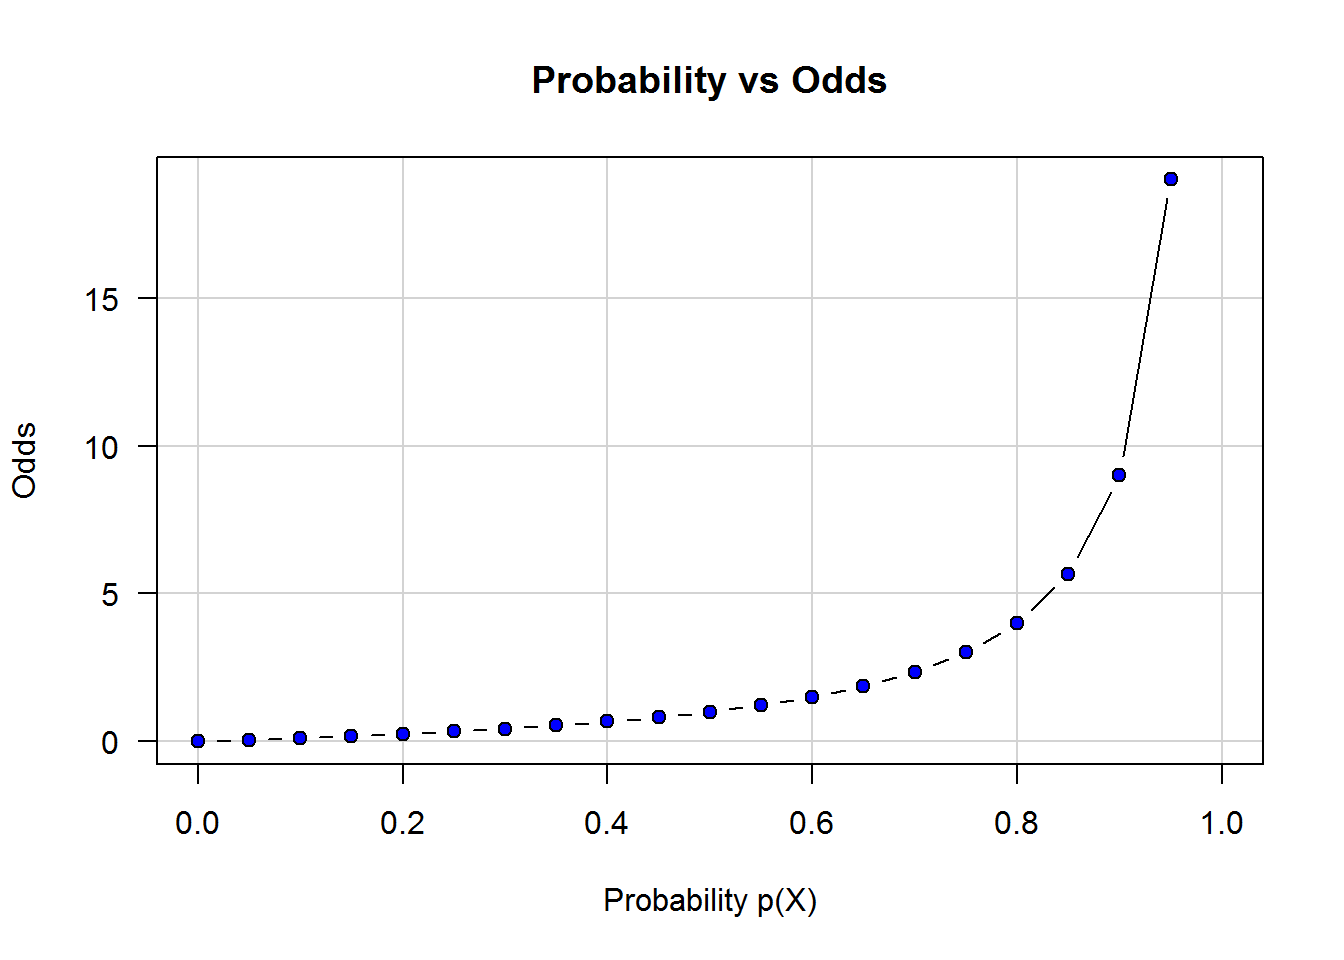
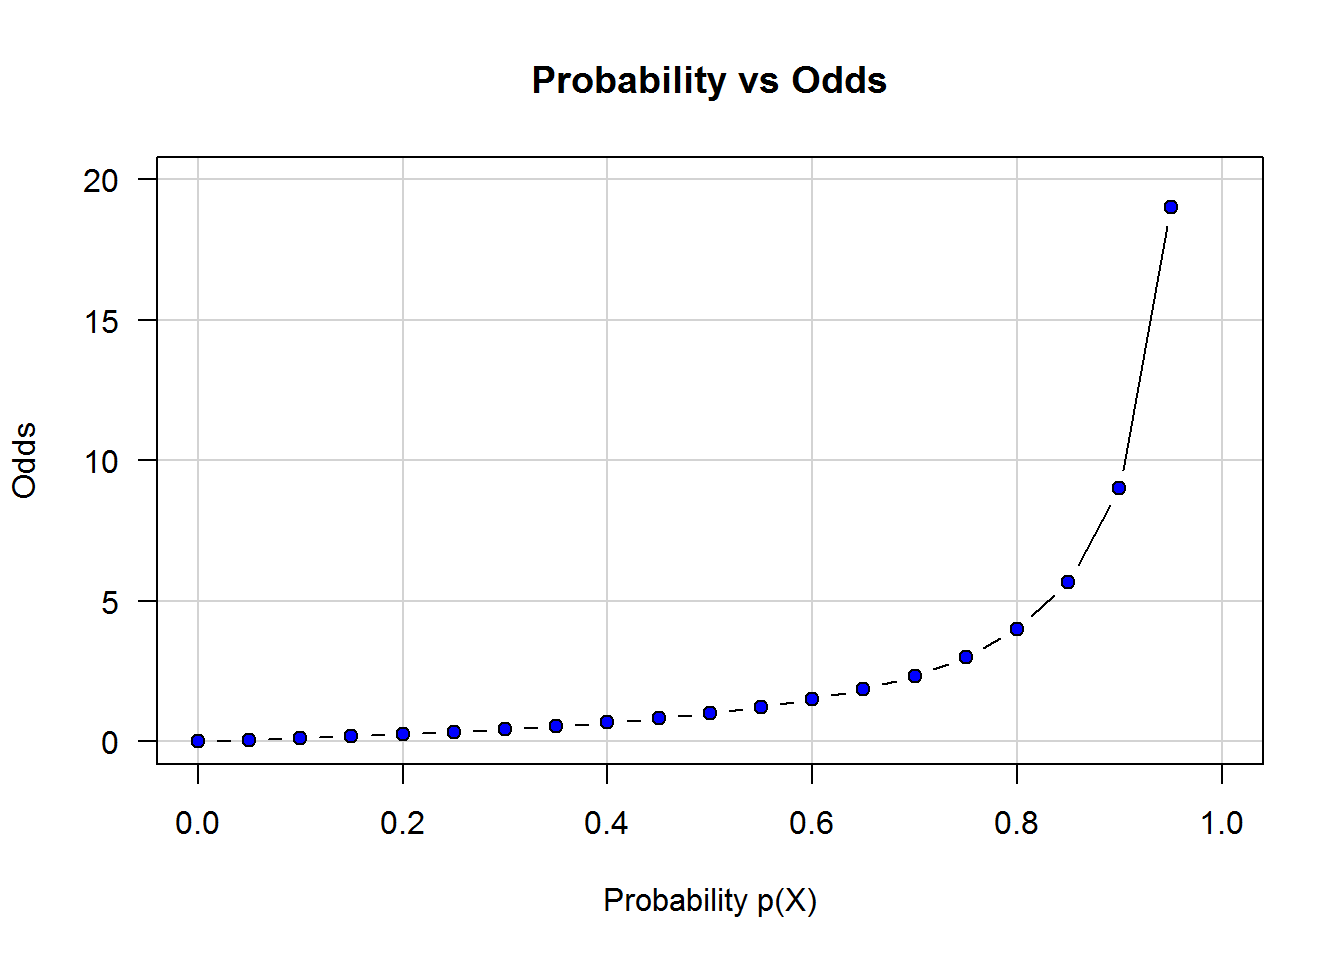
add logit

diff --git a/docs/ML.html b/docs/ML.html
@@ -162,23 +162,27 @@ code > span.in { color: #60a0b0; font-weight: bold; font-style: italic; } /* Inf
 </div>
 <div id="logisticregression" class="section level2">
 <h2><span class="header-section-number">3.3</span> Logistic regression</h2>
-<p>Logistic regression is a useful tool to model the probability of the dependent variable to belong to a particular (binary) category. Thus, logistic regression is part of the group of techniques typically used for classification problems. More formally, logistic regression models the relationship between <span class="math inline">\(p(X) = Pr(Y=1|X)\)</span>, where <span class="math inline">\(p(X)\)</span> denotes the probability for <span class="math inline">\(Y\)</span> to be True given a specific value of <span class="math inline">\(X\)</span>.</p>
+<p>Logistic regression is a useful tool to model the probability of the dependent variable to belong to a particular (binary) category. Thus, logistic regression is part of the group of techniques typically used for classification problems.</p>
+<p>More formally, logistic regression models the relationship between <span class="math inline">\(p(X) = Pr(Y=1|X)\)</span>, where <span class="math inline">\(p(X)\)</span> denotes the probability for <span class="math inline">\(Y\)</span> to be True given a specific value of <span class="math inline">\(X\)</span>.</p>
 <p>In classification problems we are interested on predicting whether an event will happen or not, if an individual belogs to group A or group B, or whether the market will move downward or upward. All those are examples of binary classification problems for which we need a mathematical function which output ranges between 0 and 1 for all the domain of <span class="math inline">\(X\)</span>. In other words, regardless the value of <span class="math inline">\(X\)</span> the output value of <span class="math inline">\(f\)</span> is always a number between 0 and 1.</p>
-<p>You might wonder why not to use linear regression for classification problems. Remember that for linear regression <span class="math inline">\(p(X)\)</span> is defined as <span class="math inline">\(p(X) = {\beta_0} + {\beta_1} X\)</span> which is of little help to make predictions about the category of a variable given that it’s codomain includes all the real numbers <span class="math inline">\(\mathbb{R}\)</span> from <span class="math inline">\(-{\infty}\)</span> to <span class="math inline">\({\infty}\)</span>. That is <span class="math inline">\(f: \mathbb{R} \mapsto \mathbb{R}\)</span>. How would you interpret a negative probability? What would be the meaning of a very large probability number such as 9000%? There are several function that satisfy this condition <span class="math inline">\(f: \mathbb{R} \mapsto (0,1)\)</span> however linear regression is not one of them.</p>
-<p>One of the functions that satisfy this condition is the logistic function defined below:</p>
+<p>You might wonder why not to use linear regression for classification problems. Remember that for linear regression <span class="math inline">\(p(X)\)</span> is defined as <span class="math inline">\(p(X) = {\beta_0} + {\beta_1} X\)</span> which is of little help to make predictions about the category of a variable given that it’s codomain includes all the real numbers <span class="math inline">\(\mathbb{R}\)</span> from <span class="math inline">\(-{\infty}\)</span> to <span class="math inline">\({\infty}\)</span>. That is <span class="math inline">\(f: \mathbb{R} \mapsto \mathbb{R}\)</span>. How would you interpret a negative probability? What would be the meaning of a very large probability number such as 9000%? There are several function that satisfy the condition <span class="math inline">\(f: \mathbb{R} \mapsto (0,1)\)</span> however linear regression is not one of them.</p>
+<p>One of the functions that satisfy the condition <span class="math inline">\(f: \mathbb{R} \mapsto (0,1)\)</span> is the logistic function defined below:</p>
 <p><span class="math display">\[p(X) = \frac{e^{{\beta_0} + {\beta_1} X}}{1+e^{{\beta_0} + {\beta_1} X}}\]</span> , which can also be expressed as follows:</p>
-<p><span class="math display">\[\frac{p(X)}{1-p(X)} = e^{{\beta_0} + {\beta_1} X}\]</span> The left side of the equation above is also known as <em>the odds</em> of the event. The odds describe the likeliness that an event will occur and can take any value from zero to infinite. An odds value close to zero indicates that the event is very unlikely to happen, the higher the odds value the higher the likeliness for the event to happen.</p>
-<p>The likeliness of the odds is not exactly the same as the probability for the event to happen, remember that probability is denoted by <span class="math inline">\(p(X)\)</span> and lies between zero to one. For example, let’s say that the probability <span class="math inline">\(p(X)\)</span> for a medical diagnostic to be correct is 80% this will imply an odds value of 4 given that <span class="math inline">\(\frac{0.8}{1-0.8} = 4\)</span>. In other words, 8 in 10 people with an odds of 4 will receive the correct diagnostic.</p>
+<p><span class="math display">\[\frac{p(X)}{1-p(X)} = e^{{\beta_0} + {\beta_1} X}\]</span> The left side of the equation above is also known as <em>the odds</em> of the event. The odds describe the likeliness for an event to occur and can take any value from zero to infinite. An odds value close to zero indicates that the event is very unlikely to happen, the higher the odds value the higher the likeliness for the event to happen.</p>
+<p>The likeliness of the odds is not exactly the same as the probability for the event to happen, remember that probability is denoted by <span class="math inline">\(p(X)\)</span> and lies between 0 and 1. For example, let’s say that the probability <span class="math inline">\(p(X)\)</span> for a medical diagnostic to be correct is 80%, this will imply an odds value of 4 given that <span class="math inline">\(\frac{0.8}{1-0.8} = 4\)</span>. In other words, 8 in 10 people with an odds of 4 will receive the correct diagnostic.</p>
+<p>As the reader can conclude from the plot below, in general any odds value higher than 10 suggests a very high probability for the event to accur.</p>
 <div class="sourceCode"><pre class="sourceCode r"><code class="sourceCode r"><span class="kw">par</span>(<span class="dt">las =</span> <span class="dv">1</span>)
 <span class="kw">plot</span>(<span class="dt">x =</span> <span class="kw">seq</span>(<span class="dt">from =</span> <span class="dv">0</span>, <span class="dt">to =</span> <span class="dv">1</span>, <span class="dt">by =</span> <span class="fl">0.05</span>), 
      <span class="dt">y =</span> <span class="kw">seq</span>(<span class="dt">from =</span> <span class="dv">0</span>, <span class="dt">to =</span> <span class="dv">1</span>, <span class="dt">by =</span> <span class="fl">0.05</span>)<span class="op">/</span>(<span class="dv">1</span><span class="op">-</span><span class="kw">seq</span>(<span class="dt">from =</span> <span class="dv">0</span>, <span class="dt">to =</span> <span class="dv">1</span>, <span class="dt">by =</span> <span class="fl">0.05</span>)),
+     <span class="dt">ylim =</span> <span class="kw">range</span>(<span class="dv">0</span><span class="op">:</span><span class="dv">20</span>),
      <span class="dt">main =</span> <span class="st">&#39;Probability vs Odds&#39;</span>,
      <span class="dt">xlab =</span> <span class="st">&#39;Probability p(X)&#39;</span>,
      <span class="dt">ylab =</span> <span class="st">&#39;Odds&#39;</span>,
      <span class="dt">type =</span> <span class="st">&#39;b&#39;</span>, <span class="dt">pch =</span> <span class="dv">21</span>, <span class="dt">bg=</span><span class="st">&quot;blue&quot;</span>,
      <span class="dt">panel.first =</span> <span class="kw">grid</span>(<span class="dt">lty =</span> <span class="dv">1</span>))</code></pre></div>
 <p><img src="bookdown_files/figure-html/unnamed-chunk-1-1.png" width="672" /></p>
-<p>Applying the log..</p>
+<p>Applying the logarithm to the logistic function we obtain the log-odds function also known as <em>logit</em>. This function is linear in <span class="math inline">\(X\)</span>.</p>
+<p><span class="math display">\[\log\frac{p(X)}{1-p(X)} = {\beta_0} + {\beta_1} X\]</span> The linear relationship between the log-odds and <span class="math inline">\(X\)</span> means that a one-unit increase in <span class="math inline">\(X\)</span> is associated with an increase in the log-odds by <span class="math inline">\({\beta_1}\)</span> units.</p>
 </div>
 <div id="crossvalidation" class="section level2">
 <h2><span class="header-section-number">3.4</span> Cross Validation</h2>

diff --git a/docs/index.html b/docs/index.html
@@ -25,7 +25,7 @@
 <meta name="author" content="MSc J. Manuel Magana A., PhD Alberto Dorantes">
 
 
-<meta name="date" content="2018-10-28">
+<meta name="date" content="2018-11-04">
 
   <meta name="viewport" content="width=device-width, initial-scale=1">
   <meta name="apple-mobile-web-app-capable" content="yes">
@@ -49,6 +49,43 @@
 
 
 
+<style type="text/css">
+div.sourceCode { overflow-x: auto; }
+table.sourceCode, tr.sourceCode, td.lineNumbers, td.sourceCode {
+  margin: 0; padding: 0; vertical-align: baseline; border: none; }
+table.sourceCode { width: 100%; line-height: 100%; }
+td.lineNumbers { text-align: right; padding-right: 4px; padding-left: 4px; color: #aaaaaa; border-right: 1px solid #aaaaaa; }
+td.sourceCode { padding-left: 5px; }
+code > span.kw { color: #007020; font-weight: bold; } /* Keyword */
+code > span.dt { color: #902000; } /* DataType */
+code > span.dv { color: #40a070; } /* DecVal */
+code > span.bn { color: #40a070; } /* BaseN */
+code > span.fl { color: #40a070; } /* Float */
+code > span.ch { color: #4070a0; } /* Char */
+code > span.st { color: #4070a0; } /* String */
+code > span.co { color: #60a0b0; font-style: italic; } /* Comment */
+code > span.ot { color: #007020; } /* Other */
+code > span.al { color: #ff0000; font-weight: bold; } /* Alert */
+code > span.fu { color: #06287e; } /* Function */
+code > span.er { color: #ff0000; font-weight: bold; } /* Error */
+code > span.wa { color: #60a0b0; font-weight: bold; font-style: italic; } /* Warning */
+code > span.cn { color: #880000; } /* Constant */
+code > span.sc { color: #4070a0; } /* SpecialChar */
+code > span.vs { color: #4070a0; } /* VerbatimString */
+code > span.ss { color: #bb6688; } /* SpecialString */
+code > span.im { } /* Import */
+code > span.va { color: #19177c; } /* Variable */
+code > span.cf { color: #007020; font-weight: bold; } /* ControlFlow */
+code > span.op { color: #666666; } /* Operator */
+code > span.bu { } /* BuiltIn */
+code > span.ex { } /* Extension */
+code > span.pp { color: #bc7a00; } /* Preprocessor */
+code > span.at { color: #7d9029; } /* Attribute */
+code > span.do { color: #ba2121; font-style: italic; } /* Documentation */
+code > span.an { color: #60a0b0; font-weight: bold; font-style: italic; } /* Annotation */
+code > span.cv { color: #60a0b0; font-weight: bold; font-style: italic; } /* CommentVar */
+code > span.in { color: #60a0b0; font-weight: bold; font-style: italic; } /* Information */
+</style>
 
 </head>
 
@@ -116,7 +153,7 @@
 <div id="header">
 <h1 class="title">Data Science Handbook</h1>
 <h4 class="author"><em>MSc J. Manuel Magana A., PhD Alberto Dorantes</em></h4>
-<h4 class="date"><em>2018-10-28</em></h4>
+<h4 class="date"><em>2018-11-04</em></h4>
 </div>
 <div id="welcome" class="section level1 unnumbered">
 <h1>Welcome</h1>

diff --git a/docs/Annex.html b/docs/Annex.html
@@ -25,7 +25,7 @@
 <meta name="author" content="MSc J. Manuel Magana A., PhD Alberto Dorantes">
 
 
-<meta name="date" content="2018-10-28">
+<meta name="date" content="2018-11-04">
 
   <meta name="viewport" content="width=device-width, initial-scale=1">
   <meta name="apple-mobile-web-app-capable" content="yes">
@@ -49,6 +49,43 @@
 
 
 
+<style type="text/css">
+div.sourceCode { overflow-x: auto; }
+table.sourceCode, tr.sourceCode, td.lineNumbers, td.sourceCode {
+  margin: 0; padding: 0; vertical-align: baseline; border: none; }
+table.sourceCode { width: 100%; line-height: 100%; }
+td.lineNumbers { text-align: right; padding-right: 4px; padding-left: 4px; color: #aaaaaa; border-right: 1px solid #aaaaaa; }
+td.sourceCode { padding-left: 5px; }
+code > span.kw { color: #007020; font-weight: bold; } /* Keyword */
+code > span.dt { color: #902000; } /* DataType */
+code > span.dv { color: #40a070; } /* DecVal */
+code > span.bn { color: #40a070; } /* BaseN */
+code > span.fl { color: #40a070; } /* Float */
+code > span.ch { color: #4070a0; } /* Char */
+code > span.st { color: #4070a0; } /* String */
+code > span.co { color: #60a0b0; font-style: italic; } /* Comment */
+code > span.ot { color: #007020; } /* Other */
+code > span.al { color: #ff0000; font-weight: bold; } /* Alert */
+code > span.fu { color: #06287e; } /* Function */
+code > span.er { color: #ff0000; font-weight: bold; } /* Error */
+code > span.wa { color: #60a0b0; font-weight: bold; font-style: italic; } /* Warning */
+code > span.cn { color: #880000; } /* Constant */
+code > span.sc { color: #4070a0; } /* SpecialChar */
+code > span.vs { color: #4070a0; } /* VerbatimString */
+code > span.ss { color: #bb6688; } /* SpecialString */
+code > span.im { } /* Import */
+code > span.va { color: #19177c; } /* Variable */
+code > span.cf { color: #007020; font-weight: bold; } /* ControlFlow */
+code > span.op { color: #666666; } /* Operator */
+code > span.bu { } /* BuiltIn */
+code > span.ex { } /* Extension */
+code > span.pp { color: #bc7a00; } /* Preprocessor */
+code > span.at { color: #7d9029; } /* Attribute */
+code > span.do { color: #ba2121; font-style: italic; } /* Documentation */
+code > span.an { color: #60a0b0; font-weight: bold; font-style: italic; } /* Annotation */
+code > span.cv { color: #60a0b0; font-weight: bold; font-style: italic; } /* CommentVar */
+code > span.in { color: #60a0b0; font-weight: bold; font-style: italic; } /* Information */
+</style>
 
 </head>
 

diff --git a/docs/DSapps.html b/docs/DSapps.html
@@ -25,7 +25,7 @@
 <meta name="author" content="MSc J. Manuel Magana A., PhD Alberto Dorantes">
 
 
-<meta name="date" content="2018-10-28">
+<meta name="date" content="2018-11-04">
 
   <meta name="viewport" content="width=device-width, initial-scale=1">
   <meta name="apple-mobile-web-app-capable" content="yes">
@@ -49,6 +49,43 @@
 
 
 
+<style type="text/css">
+div.sourceCode { overflow-x: auto; }
+table.sourceCode, tr.sourceCode, td.lineNumbers, td.sourceCode {
+  margin: 0; padding: 0; vertical-align: baseline; border: none; }
+table.sourceCode { width: 100%; line-height: 100%; }
+td.lineNumbers { text-align: right; padding-right: 4px; padding-left: 4px; color: #aaaaaa; border-right: 1px solid #aaaaaa; }
+td.sourceCode { padding-left: 5px; }
+code > span.kw { color: #007020; font-weight: bold; } /* Keyword */
+code > span.dt { color: #902000; } /* DataType */
+code > span.dv { color: #40a070; } /* DecVal */
+code > span.bn { color: #40a070; } /* BaseN */
+code > span.fl { color: #40a070; } /* Float */
+code > span.ch { color: #4070a0; } /* Char */
+code > span.st { color: #4070a0; } /* String */
+code > span.co { color: #60a0b0; font-style: italic; } /* Comment */
+code > span.ot { color: #007020; } /* Other */
+code > span.al { color: #ff0000; font-weight: bold; } /* Alert */
+code > span.fu { color: #06287e; } /* Function */
+code > span.er { color: #ff0000; font-weight: bold; } /* Error */
+code > span.wa { color: #60a0b0; font-weight: bold; font-style: italic; } /* Warning */
+code > span.cn { color: #880000; } /* Constant */
+code > span.sc { color: #4070a0; } /* SpecialChar */
+code > span.vs { color: #4070a0; } /* VerbatimString */
+code > span.ss { color: #bb6688; } /* SpecialString */
+code > span.im { } /* Import */
+code > span.va { color: #19177c; } /* Variable */
+code > span.cf { color: #007020; font-weight: bold; } /* ControlFlow */
+code > span.op { color: #666666; } /* Operator */
+code > span.bu { } /* BuiltIn */
+code > span.ex { } /* Extension */
+code > span.pp { color: #bc7a00; } /* Preprocessor */
+code > span.at { color: #7d9029; } /* Attribute */
+code > span.do { color: #ba2121; font-style: italic; } /* Documentation */
+code > span.an { color: #60a0b0; font-weight: bold; font-style: italic; } /* Annotation */
+code > span.cv { color: #60a0b0; font-weight: bold; font-style: italic; } /* CommentVar */
+code > span.in { color: #60a0b0; font-weight: bold; font-style: italic; } /* Information */
+</style>
 
 </head>
 

diff --git a/docs/part-i-introduction.html b/docs/part-i-introduction.html
@@ -25,7 +25,7 @@
 <meta name="author" content="MSc J. Manuel Magana A., PhD Alberto Dorantes">
 
 
-<meta name="date" content="2018-10-28">
+<meta name="date" content="2018-11-04">
 
   <meta name="viewport" content="width=device-width, initial-scale=1">
   <meta name="apple-mobile-web-app-capable" content="yes">
@@ -49,6 +49,43 @@
 
 
 
+<style type="text/css">
+div.sourceCode { overflow-x: auto; }
+table.sourceCode, tr.sourceCode, td.lineNumbers, td.sourceCode {
+  margin: 0; padding: 0; vertical-align: baseline; border: none; }
+table.sourceCode { width: 100%; line-height: 100%; }
+td.lineNumbers { text-align: right; padding-right: 4px; padding-left: 4px; color: #aaaaaa; border-right: 1px solid #aaaaaa; }
+td.sourceCode { padding-left: 5px; }
+code > span.kw { color: #007020; font-weight: bold; } /* Keyword */
+code > span.dt { color: #902000; } /* DataType */
+code > span.dv { color: #40a070; } /* DecVal */
+code > span.bn { color: #40a070; } /* BaseN */
+code > span.fl { color: #40a070; } /* Float */
+code > span.ch { color: #4070a0; } /* Char */
+code > span.st { color: #4070a0; } /* String */
+code > span.co { color: #60a0b0; font-style: italic; } /* Comment */
+code > span.ot { color: #007020; } /* Other */
+code > span.al { color: #ff0000; font-weight: bold; } /* Alert */
+code > span.fu { color: #06287e; } /* Function */
+code > span.er { color: #ff0000; font-weight: bold; } /* Error */
+code > span.wa { color: #60a0b0; font-weight: bold; font-style: italic; } /* Warning */
+code > span.cn { color: #880000; } /* Constant */
+code > span.sc { color: #4070a0; } /* SpecialChar */
+code > span.vs { color: #4070a0; } /* VerbatimString */
+code > span.ss { color: #bb6688; } /* SpecialString */
+code > span.im { } /* Import */
+code > span.va { color: #19177c; } /* Variable */
+code > span.cf { color: #007020; font-weight: bold; } /* ControlFlow */
+code > span.op { color: #666666; } /* Operator */
+code > span.bu { } /* BuiltIn */
+code > span.ex { } /* Extension */
+code > span.pp { color: #bc7a00; } /* Preprocessor */
+code > span.at { color: #7d9029; } /* Attribute */
+code > span.do { color: #ba2121; font-style: italic; } /* Documentation */
+code > span.an { color: #60a0b0; font-weight: bold; font-style: italic; } /* Annotation */
+code > span.cv { color: #60a0b0; font-weight: bold; font-style: italic; } /* CommentVar */
+code > span.in { color: #60a0b0; font-weight: bold; font-style: italic; } /* Information */
+</style>
 
 </head>
 

diff --git a/docs/statistics.html b/docs/statistics.html
@@ -25,7 +25,7 @@
 <meta name="author" content="MSc J. Manuel Magana A., PhD Alberto Dorantes">
 
 
-<meta name="date" content="2018-10-28">
+<meta name="date" content="2018-11-04">
 
   <meta name="viewport" content="width=device-width, initial-scale=1">
   <meta name="apple-mobile-web-app-capable" content="yes">
@@ -49,6 +49,43 @@
 
 
 
+<style type="text/css">
+div.sourceCode { overflow-x: auto; }
+table.sourceCode, tr.sourceCode, td.lineNumbers, td.sourceCode {
+  margin: 0; padding: 0; vertical-align: baseline; border: none; }
+table.sourceCode { width: 100%; line-height: 100%; }
+td.lineNumbers { text-align: right; padding-right: 4px; padding-left: 4px; color: #aaaaaa; border-right: 1px solid #aaaaaa; }
+td.sourceCode { padding-left: 5px; }
+code > span.kw { color: #007020; font-weight: bold; } /* Keyword */
+code > span.dt { color: #902000; } /* DataType */
+code > span.dv { color: #40a070; } /* DecVal */
+code > span.bn { color: #40a070; } /* BaseN */
+code > span.fl { color: #40a070; } /* Float */
+code > span.ch { color: #4070a0; } /* Char */
+code > span.st { color: #4070a0; } /* String */
+code > span.co { color: #60a0b0; font-style: italic; } /* Comment */
+code > span.ot { color: #007020; } /* Other */
+code > span.al { color: #ff0000; font-weight: bold; } /* Alert */
+code > span.fu { color: #06287e; } /* Function */
+code > span.er { color: #ff0000; font-weight: bold; } /* Error */
+code > span.wa { color: #60a0b0; font-weight: bold; font-style: italic; } /* Warning */
+code > span.cn { color: #880000; } /* Constant */
+code > span.sc { color: #4070a0; } /* SpecialChar */
+code > span.vs { color: #4070a0; } /* VerbatimString */
+code > span.ss { color: #bb6688; } /* SpecialString */
+code > span.im { } /* Import */
+code > span.va { color: #19177c; } /* Variable */
+code > span.cf { color: #007020; font-weight: bold; } /* ControlFlow */
+code > span.op { color: #666666; } /* Operator */
+code > span.bu { } /* BuiltIn */
+code > span.ex { } /* Extension */
+code > span.pp { color: #bc7a00; } /* Preprocessor */
+code > span.at { color: #7d9029; } /* Attribute */
+code > span.do { color: #ba2121; font-style: italic; } /* Documentation */
+code > span.an { color: #60a0b0; font-weight: bold; font-style: italic; } /* Annotation */
+code > span.cv { color: #60a0b0; font-weight: bold; font-style: italic; } /* CommentVar */
+code > span.in { color: #60a0b0; font-weight: bold; font-style: italic; } /* Information */
+</style>
 
 </head>
 
